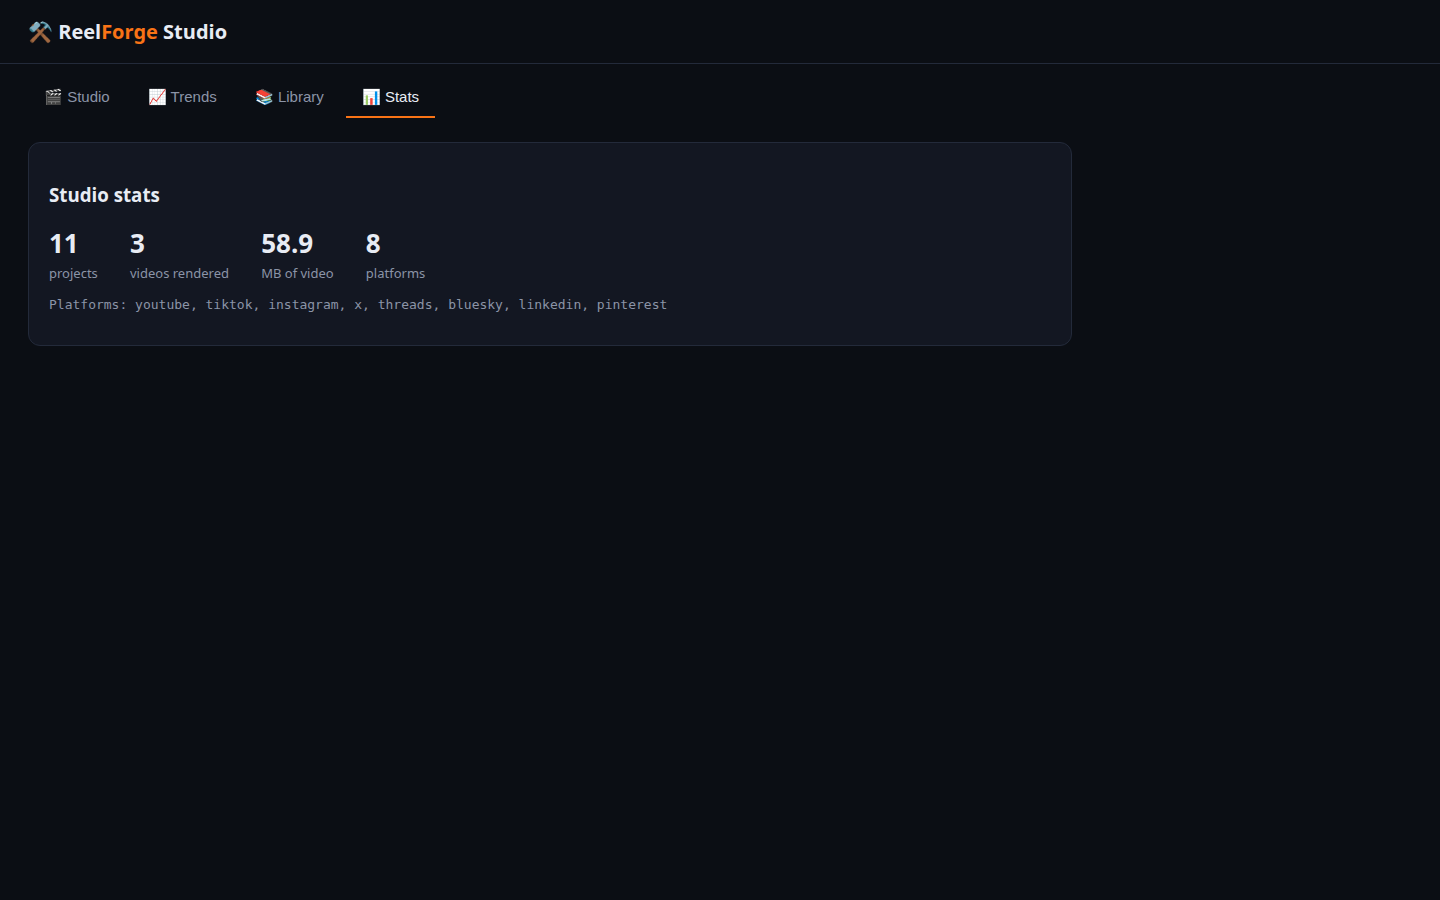
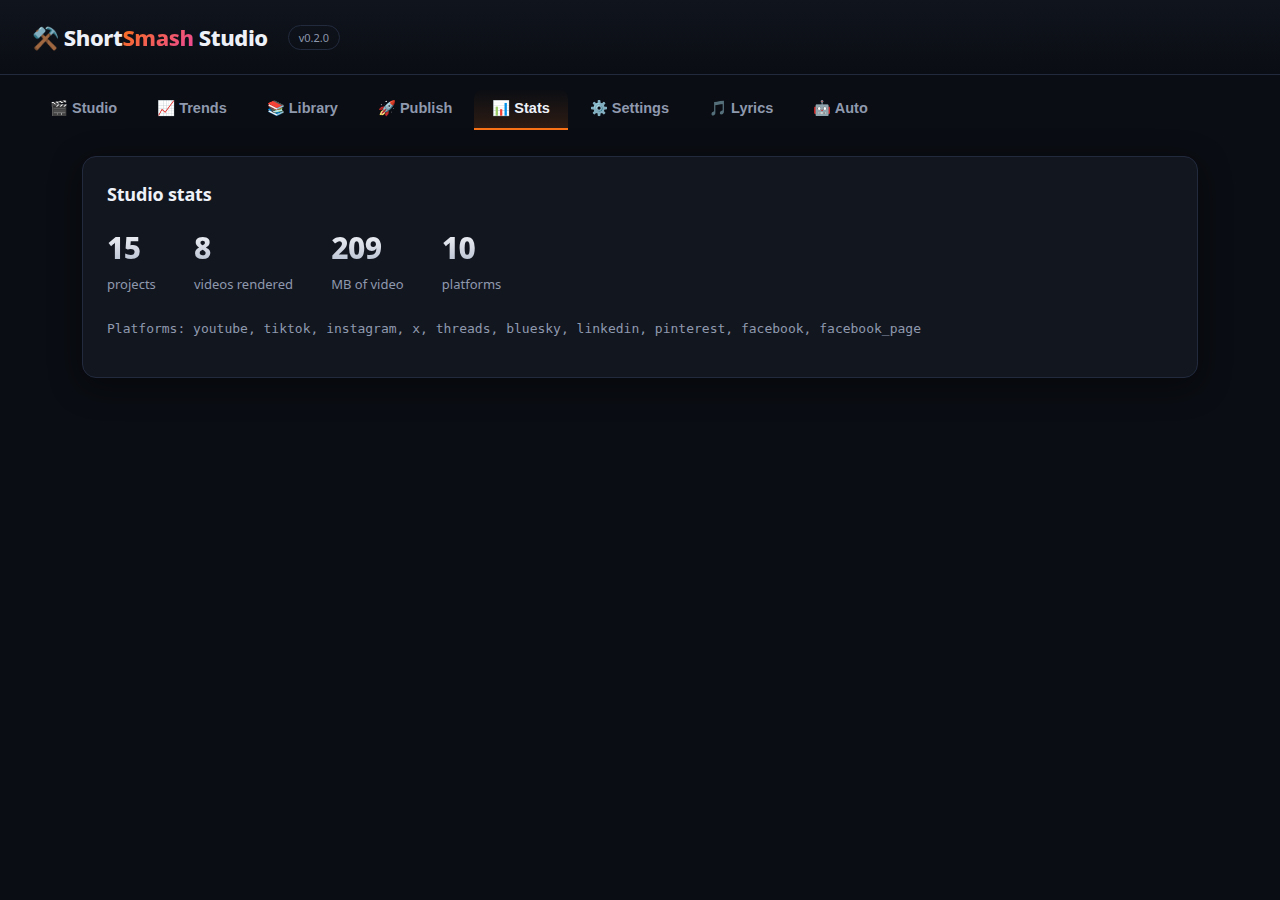
Launch assets: Chinese demo in README, fresh screenshots, Lyrics/Auto gallery

diff --git a/README.md b/README.md
@@ -35,6 +35,10 @@ shortsmash agent "make a 30s reel about coffee and post it Friday at 6pm"
 
 The same video, re-voiced by `shortsmash dub` — [Español](demo/coffee-v1-es.mp4) · [اردو](demo/coffee-v1-ur.mp4) · [Roman Urdu](demo/coffee-v1-ur-roman.mp4). One project, every audience.
 
+**中文版** — the same video, fully re-voiced in native Mandarin (Piper huayan neural voice, not translationese), with Hanzi karaoke captions:
+
+<video src="demo/coffee-v1-zh.mp4" width="270" controls></video>
+
 ### 🖥 ShortSmash Studio
 
 `shortsmash serve` — generate, browse trends, publish, and track stats from the browser:
@@ -46,6 +50,8 @@ The same video, re-voiced by `shortsmash dub` — [Español](demo/coffee-v1-es.m
 | ![Publish tab](demo/screenshots/studio-publish.png) | ![Library tab](demo/screenshots/library.png) |
 | Trends | Stats |
 | ![Trends tab](demo/screenshots/trends.png) | ![Stats tab](demo/screenshots/stats.png) |
+| Lyrics mode | Auto pilot |
+| ![Lyrics tab](demo/screenshots/lyrics.png) | ![Auto tab](demo/screenshots/auto.png) |
 
 *Earlier demo: [Hyderabadi biryani](demo/biryani-v3.mp4) — the one that taught the pipeline to see.*
 
